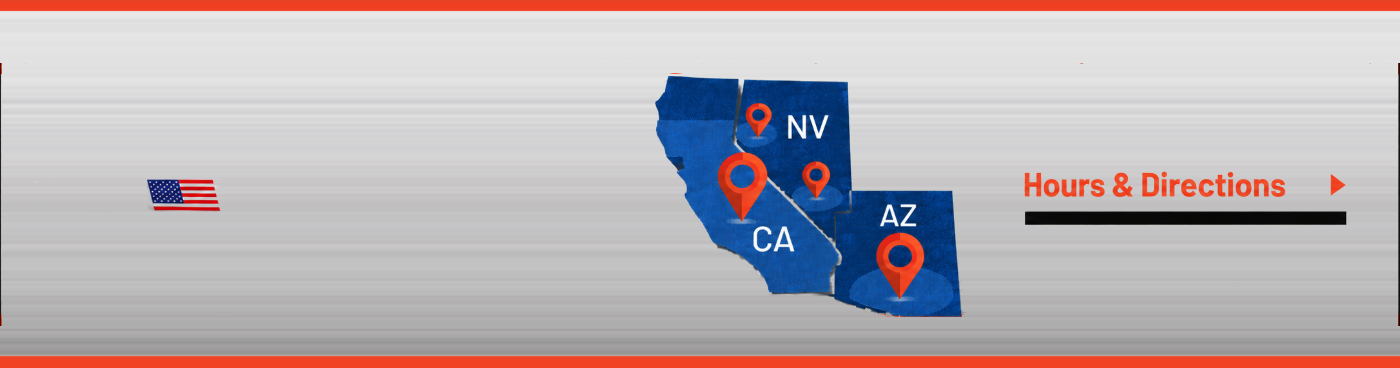
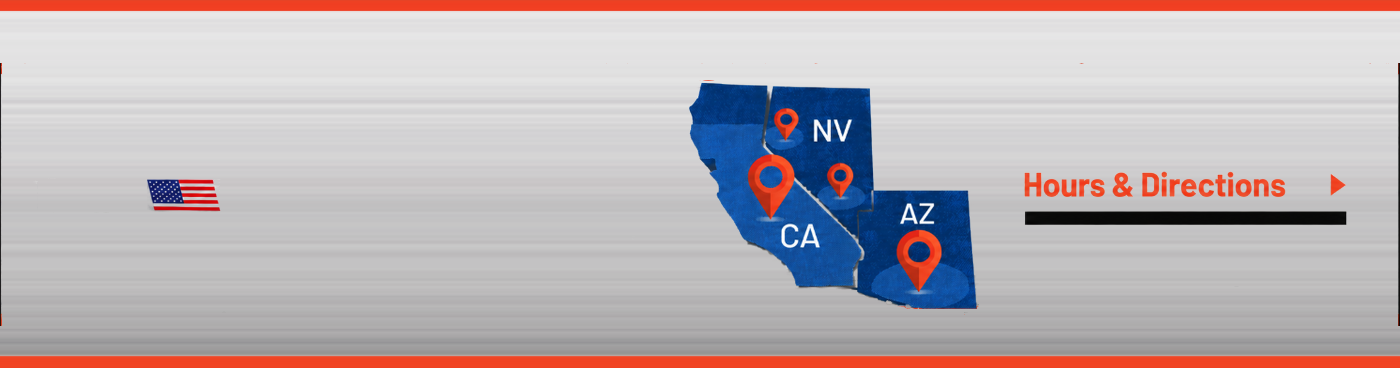
Mobile: one-line phone row, lighter slide 3, re-centred map, badges on the photo
Five mobile-only adjustments. Desktop is untouched: every rule stays inside the single
`@media (max-width: 640px)` block in assets/css/mobile.css, and 1440px still matches the
Claude Design handoff with zero geometry, style, src or href differences.

- Utility bar: the three regional numbers needed 360px to share a line at the handoff's
  13.5px but a 375px phone offers 343px, so NV dropped to a second row. Trimming the
  type, gaps and handset icons brings the row to ~304px, so it fits from 360px up and
  the bar halves in height (64px -> 27px).

- Slide 3: was three pieces of hardware at desktop scale, colliding with each other and
  with the blocks either side. Now two — the router artwork is cropped to a single bit
  by tools/make-mobile-plates.mjs, which finds the split between the bits rather than
  hard-coding it — both at 60% height and evenly spaced (~2.3% of clear plate between
  copy, bit, blade and CTA).

- Slide 2: the map is redrawn 6% smaller and re-centred in the gap between the copy and
  the "Hours & Directions" button, so it reads 3.1% / 3.2% either side instead of being
  crowded against the copy at 0.7% and adrift from the button at 4.3%.

- About Us: the two credential badges are lifted out of the flow and pinned to the foot
  of the photograph behind a diagonal, the way the desktop wedge presents them, instead
  of sitting as a detached bar below the copy. The handoff pins this element inline with
[…]

Changed region(s): [[0.4607, 0.2092, 0.7064, 0.8668]]

diff --git a/assets/css/mobile.css b/assets/css/mobile.css
@@ -10,6 +10,7 @@
  *
  * Contents
  *   1. Hero slider — 40% taller, flag clear of the arrow, slide 4 dropped
+ *      …plus the utility bar's phone numbers, kept on one line
  *   2. Service category grid — 2 large + 3 compact, all five above the fold
  *   3. About Us — fixes the overflowing photo and the collapsed OEM grid
  */
@@ -35,6 +36,9 @@
   #page .hero-track img[src$="hero-plate-clean.png"] {
     content: url("../uploads/hero-plate-mobile.png");
   }
+  /* min6-mobile also redraws the CA/NV/AZ map 6% smaller and re-centred, so it sits
+   * evenly between the "BASED IN" copy and the "Hours & Directions" button instead of
+   * crowding the copy (3.1% of clear plate on each side, against 0.7% / 4.3% before). */
   #page .hero-track img[src$="min6.png"] {
     content: url("../uploads/min6-mobile.png");
   }
@@ -71,11 +75,46 @@
     left: 19.5% !important;
   }
 
+  /* Slide 3 shows three pieces of hardware — a two-bit router set plus the
+   * reciprocating blade — drawn at desktop scale. On a phone they collided with each
+   * other, with the copy on the left and with the "Order now" block on the right.
+   * Mobile keeps two pieces: one router bit (the artwork is cropped to the right-hand
+   * bit by tools/make-mobile-plates.mjs) and the blade, both at 60% height, spaced
+   * evenly across the gap between the copy (ends 44.8%) and the CTA (starts 73.5%). */
+  #page .hero-track img[src$="slide3-bits.png"] {
+    content: url("../uploads/slide3-bits-mobile.png");
+    height: 46.8% !important;   /* was 78% */
+    left: 47.1% !important;     /* was 43% */
+  }
+  /* Rotated -8deg, so its laid-out box starts ~0.9% left of its `left`. */
+  #page .hero-track img[src$="slide3-blade.png"] {
+    height: 51.6% !important;   /* was 86% */
+    left: 56.9% !important;     /* was 56% */
+  }
+
   /* A slightly larger arrow on the taller bar — still the design's shape and colour,
    * just an easier tap target than 22px. */
   #page .hero-slider > button {
     width: 26px !important;
     height: 26px !important;
+  }
+
+  /* The three regional phone numbers need 360px to sit on one line at the handoff's
+   * 13.5px, but a 375px phone only offers 343px, so NV dropped to a second row and
+   * the utility bar became two lines deep. Trimming the type, the gaps and the
+   * handset icons brings the row to ~304px, which fits from 360px upwards. */
+  #page #stickyNav .util-row > div:first-child > :last-child {
+    flex-wrap: nowrap !important;
+    gap: 8px !important;
+  }
+  #page #stickyNav .util-row > div:first-child > :last-child > * {
+    white-space: nowrap !important;
+    gap: 5px !important;
+    font-size: 12px !important;
+  }
+  #page #stickyNav .util-row > div:first-child > :last-child svg {
+    width: 12px !important;
+    height: 12px !important;
   }
 
   /* ---------------------------------------------------------------- *
@@ -142,6 +181,35 @@
     object-position: 58% 42% !important;
   }
 
+  /* The handoff's desktop layout runs a navy wedge diagonally across the foot of the
+   * photograph and sets the two credential badges on it; its mobile CSS drops the
+   * wedge and leaves the badges as a detached bar below the copy. This puts them back
+   * on the photo, keeping the diagonal, so the section opens the way the design does.
+   * The photo is given the extra height the band occupies, and the band is taken out
+   * of the flow and pinned to the bottom of it. */
+  #page .about-photo {
+    height: 252px !important;
+  }
+  #page .about-badges {
+    position: absolute !important;
+    left: 0 !important;
+    right: 0 !important;
+    top: 252px !important;
+    /* The handoff pins this inline with `bottom: 3.2%`; leaving that set alongside a
+     * `top` would stretch the bar to span between them instead of hugging its content. */
+    bottom: auto !important;
+    transform: translateY(-100%) !important;
+    margin: 0 !important;
+    z-index: 3 !important;
+    background: #0B2A4A !important;
+    /* The diagonal rises to the right, as it does on desktop. The extra top padding
+     * keeps the badges clear of the slope on the shallow (left) side. */
+    clip-path: polygon(0 32%, 100% 0, 100% 100%, 0 100%) !important;
+    padding: 34px 16px 18px !important;
+    gap: 20px !important;
+    align-items: center !important;
+  }
+
   /* A clear light panel for the copy, so nothing sits on busy photography. */
   #page .about-copy {
     background: #e7e9eb !important;
@@ -168,12 +236,13 @@
   /* The handoff asks for a four-column logo grid, but its own
    * `[style*="grid-template-columns"] { grid-template-columns: 1fr }` rule is declared
    * later at equal specificity and wins, so all eight logos stacked in one column.
-   * Flex sidesteps that rule entirely and centres the short last row, which a grid
-   * would leave ragged. */
+   * Flex sidesteps that rule entirely. The rows read 3 / 3 / 2, and the short last
+   * row (Bobcat, Carlton) stays left-aligned with the columns above it rather than
+   * being centred under them. */
   #page .about-oem-logos {
     display: flex !important;
     flex-wrap: wrap !important;
-    justify-content: center !important;
+    justify-content: flex-start !important;
     align-items: center !important;
     gap: 12px 10px !important;
     margin-top: 18px !important;
